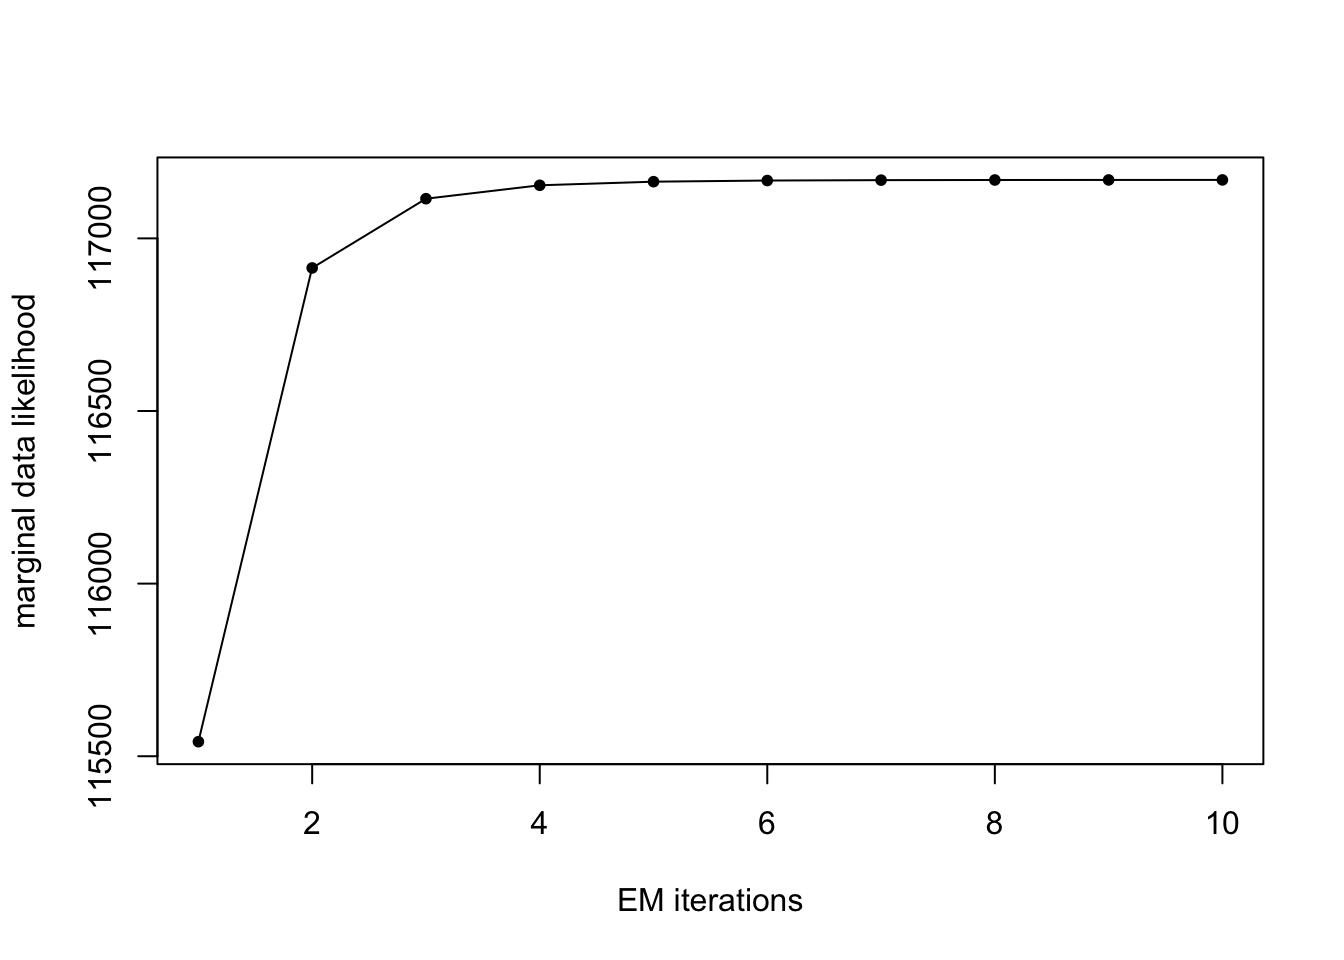
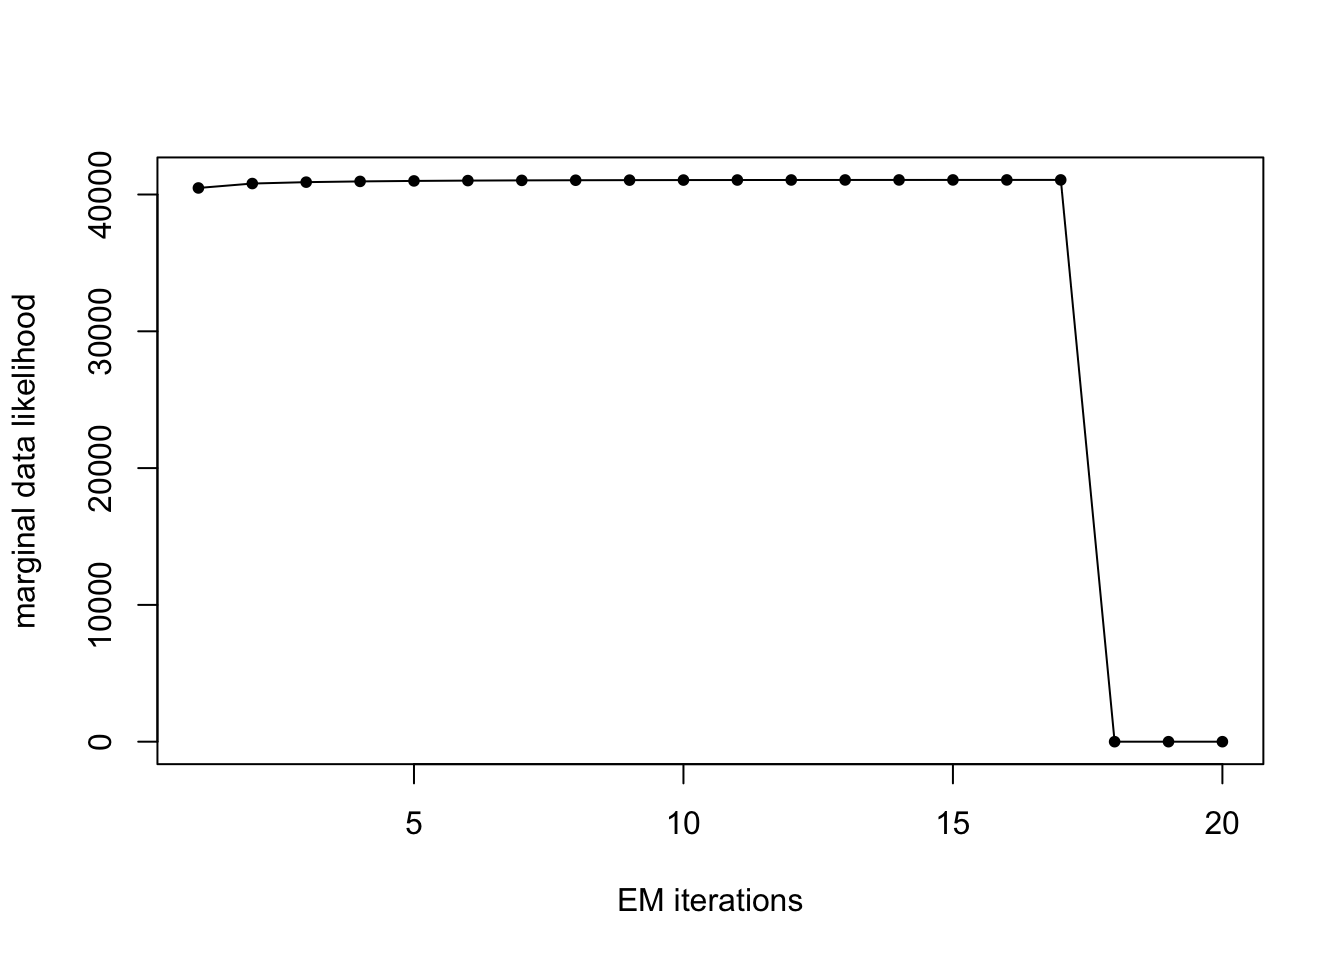
Build site.

diff --git a/docs/MIRAGE_extension.html b/docs/MIRAGE_extension.html
@@ -382,7 +382,7 @@ class="glyphicon glyphicon-ok text-success" aria-hidden="true"></span>
 <div class="tab-content">
 <div id="summary" class="tab-pane fade in active">
 <p>
-<strong>Last updated:</strong> 2026-02-11
+<strong>Last updated:</strong> 2026-02-12
 </p>
 <p>
 <strong>Checks:</strong> <span
@@ -513,15 +513,15 @@ project makes it easier to run your code on other machines.</p>
 <div class="panel panel-default">
 <div class="panel-heading">
 <p class="panel-title">
-<a data-toggle="collapse" data-parent="#workflowr-checks" href="#strongRepositoryversionstrongahrefhttpsgithubcomLifanLiangeQTLmethodstree4827df877a2322c689f431761c2adec1641935b5targetblank4827df8a">
+<a data-toggle="collapse" data-parent="#workflowr-checks" href="#strongRepositoryversionstrongahrefhttpsgithubcomLifanLiangeQTLmethodstreea6b3bfef80162fe34c1ff8d6784cfff341ff731dtargetblanka6b3bfea">
 <span class="glyphicon glyphicon-ok text-success"
 aria-hidden="true"></span> <strong>Repository version:</strong>
-<a href="https://github.com/LifanLiang/eQTL_methods/tree/4827df877a2322c689f431761c2adec1641935b5" target="_blank">4827df8</a>
+<a href="https://github.com/LifanLiang/eQTL_methods/tree/a6b3bfef80162fe34c1ff8d6784cfff341ff731d" target="_blank">a6b3bfe</a>
 </a>
 </p>
 </div>
 <div
[2 lines of base64/hex data omitted]
 class="panel-collapse collapse">
 <div class="panel-body">
 <p>
@@ -531,7 +531,7 @@ reproducibility.
 </p>
 <p>
 The results in this page were generated with repository version
-<a href="https://github.com/LifanLiang/eQTL_methods/tree/4827df877a2322c689f431761c2adec1641935b5" target="_blank">4827df8</a>.
+<a href="https://github.com/LifanLiang/eQTL_methods/tree/a6b3bfef80162fe34c1ff8d6784cfff341ff731d" target="_blank">a6b3bfe</a>.
 See the <em>Past versions</em> tab to see a history of the changes made
 to the R Markdown and HTML files.
 </p>
@@ -616,6 +616,40 @@ Message
 Rmd
 </td>
 <td>
+<a href="https://github.com/LifanLiang/eQTL_methods/blob/a6b3bfef80162fe34c1ff8d6784cfff341ff731d/analysis/MIRAGE_extension.Rmd" target="_blank">a6b3bfe</a>
+</td>
+<td>
+Lifan Liang
+</td>
+<td>
+2026-02-12
+</td>
+<td>
+wflow_publish("analysis")
+</td>
+</tr>
+<tr>
+<td>
+html
+</td>
+<td>
+<a href="https://rawcdn.githack.com/LifanLiang/eQTL_methods/dda8fcc8de5121736f7217e98ce082cf62a3b0a7/docs/MIRAGE_extension.html" target="_blank">dda8fcc</a>
+</td>
+<td>
+Lifan Liang
+</td>
+<td>
+2026-02-11
+</td>
+<td>
+Build site.
+</td>
+</tr>
+<tr>
+<td>
+Rmd
+</td>
+<td>
 <a href="https://github.com/LifanLiang/eQTL_methods/blob/4827df877a2322c689f431761c2adec1641935b5/analysis/MIRAGE_extension.Rmd" target="_blank">4827df8</a>
 </td>
 <td>
@@ -685,10 +719,10 @@ Z_j = \begin{cases}
 # Model parameters
 N &lt;- 1000 # number of genes
 J &lt;- 100 # number of variants per gene
-delta &lt;- 0.2 # percent of risk genes
+delta &lt;- 0.1 # percent of risk genes
 pi &lt;- c(0.8, 0.3, 0.05) # percent of risk variants in each variant category
 #mu &lt;- c(0, 0, 0)
-mu &lt;- c(0.3, 0.2, 0.1) # mean effect size
+mu &lt;- c(0.2, 0.2, 0.2) # mean effect size
 sigma &lt;- c(0.2, 0.2, 0.2) # SD of effect size
 
 # Set up the variant categories and AF
@@ -726,7 +760,7 @@ beta[idx] &lt;- rnorm(
 )
 
 # Create summary statistics
-n.samples &lt;- 100000 # sample size of association study
+n.samples &lt;- 20000 # sample size of association study
 se.var &lt;- 1/sqrt(n.samples * 2 * AF * (1-AF))
 beta.hat &lt;- matrix(rnorm(n=N*J, mean=beta, sd=se.var), nrow=N, ncol=J)</code></pre>
 </div>
@@ -885,7 +919,7 @@ variants in <span class="math inline">\(k\)</span>th category at the
 # Input: data matrix beta.hat and SE. Variant annotations C.
 # Input: parameters mu and sigma are given. 
 # Input: initial values of parameters
-est.par &lt;- function(beta.hat, se, C, mu, sigma, pi.init, delta.init, niter=5) {
+est.par &lt;- function(beta.hat, se, C, mu, sigma, pi.init, delta.init, niter=10, tol=0.5) {
   ngenes &lt;- nrow(beta.hat)
   nvariants &lt;- ncol(beta.hat)
   ncat &lt;- length(pi.init)
@@ -930,8 +964,15 @@ est.par &lt;- function(beta.hat, se, C, mu, sigma, pi.init, delta.init, niter=5)
     delta &lt;- delta.new
     pi &lt;- pi.new
     
-    
     cat(&quot;The observed marignal likelihood at&quot;, iter, &quot;th iteration:&quot;, marg.lik, &quot;\n&quot;)
+    
+    if(iter&gt;1) {
+      diff &lt;- data.lik[iter] - data.lik[iter-1]
+      if(diff&lt;tol) {
+        cat(&quot;Marginal likelihood reach convergence. (increase &lt;&quot;,tol,&quot;)&quot;)
+        break
+      }
+    }
   }
   
   result &lt;- list(delta = delta, pi = pi, lik.tract = data.lik, pi.trac = pi.trac, delta.trac = delta.trac)
@@ -945,24 +986,143 @@ and the proportion of risk variants (<span
 class="math inline">\(\pi_k\)</span>).</p>
 <p>In ground truth, we set <span
 class="math inline">\(\pi=\{0.8,0.3,0.05\}\)</span> and <span
-class="math inline">\(\delta=0.2\)</span>.</p>
+class="math inline">\(\delta=0.1\)</span>.</p>
 <p>To validate the EM algorithm, the initial value was set quite
 different from the ground truth (<span
 class="math inline">\(\bar\pi=\{0.1,0.1,0.1\}, \bar\delta=0.6\)</span>).
 The parameters has converged very close the ground truth.</p>
-<pre><code>The observed marignal likelihood at 1 th iteration: 115542.1 
-The observed marignal likelihood at 2 th iteration: 116914.4 
-The observed marignal likelihood at 3 th iteration: 117114.9 
-The observed marignal likelihood at 4 th iteration: 117153.8 
-The observed marignal likelihood at 5 th iteration: 117164.2 
-The observed marignal likelihood at 6 th iteration: 117167.5 
-The observed marignal likelihood at 7 th iteration: 117168.7 
-The observed marignal likelihood at 8 th iteration: 117169.1 
-The observed marignal likelihood at 9 th iteration: 117169.3 
-The observed marignal likelihood at 10 th iteration: 117169.3 </code></pre>
+<pre><code>The observed marignal likelihood at 1 th iteration: 40478.58 
+The observed marignal likelihood at 2 th iteration: 40801.82 
+The observed marignal likelihood at 3 th iteration: 40903.47 
+The observed marignal likelihood at 4 th iteration: 40958.11 
+The observed marignal likelihood at 5 th iteration: 40993.68 
+The observed marignal likelihood at 6 th iteration: 41017.34 
+The observed marignal likelihood at 7 th iteration: 41033.2 
+The observed marignal likelihood at 8 th iteration: 41043.92 
+The observed marignal likelihood at 9 th iteration: 41051.23 
+The observed marignal likelihood at 10 th iteration: 41056.26 
+The observed marignal likelihood at 11 th iteration: 41059.73 
+The observed marignal likelihood at 12 th iteration: 41062.16 
+The observed marignal likelihood at 13 th iteration: 41063.87 
+The observed marignal likelihood at 14 th iteration: 41065.09 
+The observed marignal likelihood at 15 th iteration: 41065.98 
+The observed marignal likelihood at 16 th iteration: 41066.62 
+The observed marignal likelihood at 17 th iteration: 41067.1 
+Marginal likelihood reach convergence. (increase &lt; 0.5 )</code></pre>
 <p><img src="figure/MIRAGE_extension.Rmd/unnamed-chunk-5-1.png" width="672" style="display: block; margin: auto;" /></p>
+<p>
+<button type="button" class="btn btn-default btn-xs btn-workflowr btn-workflowr-fig" data-toggle="collapse" data-target="#fig-unnamed-chunk-5-1">
+Past versions of unnamed-chunk-5-1.png
+</button>
+</p>
+<div id="fig-unnamed-chunk-5-1" class="collapse">
+<div class="table-responsive">
+<table class="table table-condensed table-hover">
+<thead>
+<tr>
+<th>
+Version
+</th>
+<th>
+Author
+</th>
+<th>
+Date
+</th>
+</tr>
+</thead>
+<tbody>
+<tr>
+<td>
+<a href="https://github.com/LifanLiang/eQTL_methods/blob/dda8fcc8de5121736f7217e98ce082cf62a3b0a7/docs/figure/MIRAGE_extension.Rmd/unnamed-chunk-5-1.png" target="_blank">dda8fcc</a>
+</td>
+<td>
+Lifan Liang
+</td>
+<td>
+2026-02-11
+</td>
+</tr>
+</tbody>
+</table>
+</div>
+</div>
 <p><img src="figure/MIRAGE_extension.Rmd/unnamed-chunk-6-1.png" width="672" style="display: block; margin: auto;" /></p>
+<p>
+<button type="button" class="btn btn-default btn-xs btn-workflowr btn-workflowr-fig" data-toggle="collapse" data-target="#fig-unnamed-chunk-6-1">
+Past versions of unnamed-chunk-6-1.png
+</button>
+</p>
+<div id="fig-unnamed-chunk-6-1" class="collapse">
+<div class="table-responsive">
+<table class="table table-condensed table-hover">
+<thead>
+<tr>
+<th>
+Version
+</th>
+<th>
+Author
+</th>
+<th>
+Date
+</th>
+</tr>
+</thead>
+<tbody>
+<tr>
+<td>
+<a href="https://github.com/LifanLiang/eQTL_methods/blob/dda8fcc8de5121736f7217e98ce082cf62a3b0a7/docs/figure/MIRAGE_extension.Rmd/unnamed-chunk-6-1.png" target="_blank">dda8fcc</a>
+</td>
+<td>
+Lifan Liang
+</td>
+<td>
+2026-02-11
+</td>
+</tr>
+</tbody>
+</table>
+</div>
+</div>
 <p><img src="figure/MIRAGE_extension.Rmd/unnamed-chunk-7-1.png" width="672" style="display: block; margin: auto;" /></p>
+<p>
+<button type="button" class="btn btn-default btn-xs btn-workflowr btn-workflowr-fig" data-toggle="collapse" data-target="#fig-unnamed-chunk-7-1">
+Past versions of unnamed-chunk-7-1.png
+</button>
+</p>
+<div id="fig-unnamed-chunk-7-1" class="collapse">
+<div class="table-responsive">
+<table class="table table-condensed table-hover">
+<thead>
+<tr>
+<th>
+Version
+</th>
+<th>
+Author
+</th>
+<th>
+Date
+</th>
+</tr>
+</thead>
+<tbody>
+<tr>
+<td>
+<a href="https://github.com/LifanLiang/eQTL_methods/blob/dda8fcc8de5121736f7217e98ce082cf62a3b0a7/docs/figure/MIRAGE_extension.Rmd/unnamed-chunk-7-1.png" target="_blank">dda8fcc</a>
+</td>
+<td>
+Lifan Liang
+</td>
+<td>
+2026-02-11
+</td>
+</tr>
+</tbody>
+</table>
+</div>
+</div>
 </div>
 </div>
 <div id="simulation-testing-performance" class="section level3">
@@ -975,19 +1135,19 @@ LoF category.</p>
 effect direction, we set up the genetic parametrs <span
 class="math inline">\(\mu\)</span> to be positive. Specifically:</p>
 <ul>
-<li>There are 100,000 samples with 1000 genes. Each genes has 100
+<li>There are 20,000 samples with 1000 genes. Each genes has 100
 variants.</li>
 <li>Proportion of risk genes: <span
-class="math inline">\(\delta=0.2\)</span>. Hence there are 200 risk
+class="math inline">\(\delta=0.1\)</span>. Hence there are 100 risk
 genes.</li>
 <li>Proportion of risk variants for each category: <span
 class="math inline">\(\pi=\{0.8,0.3,0.05\}\)</span></li>
 <li>LoF risk variants: <span class="math inline">\(\beta \sim
-Normal(\mu=0.3, \sigma=0.2)\)</span></li>
+Normal(\mu=0.2, \sigma=0.2)\)</span></li>
 <li>Missense risk variants: <span class="math inline">\(\beta \sim
 Normal(\mu=0.2, \sigma=0.2)\)</span></li>
 <li>Synonymous risk variants: <span class="math inline">\(\beta \sim
-Normal(\mu=0.1, \sigma=0.2)\)</span></li>
+Normal(\mu=0.2, \sigma=0.2)\)</span></li>
 </ul>
 <pre class="r"><code>library(ACAT)
 # ACAT test: compute the p-value for each variant, then combine with ACAT
@@ -1023,12 +1183,25 @@ w.all &lt;- rep(1,ncol(beta.hat))
 w.lof &lt;- ifelse(C[1,]==1,1,0)
 
 ### Estimate the proportion of risk genes and risk variants
-par.est &lt;- est.par(beta.hat, se.var, C,mu, sigma, pi.init = rep(0.1,3), delta.init = 0.5)</code></pre>
-<pre><code>The observed marignal likelihood at 1 th iteration: 115671.5 
-The observed marignal likelihood at 2 th iteration: 116938.7 
-The observed marignal likelihood at 3 th iteration: 117118 
-The observed marignal likelihood at 4 th iteration: 117154.3 
-The observed marignal likelihood at 5 th iteration: 117164.3 </code></pre>
+par.est &lt;- est.par(beta.hat, se.var, C,mu, sigma, pi.init = rep(0.1,3), delta.init = 0.5, niter=20)</code></pre>
+<pre><code>The observed marignal likelihood at 1 th iteration: 40589.34 
+The observed marignal likelihood at 2 th iteration: 40832.15 
+The observed marignal likelihood at 3 th iteration: 40918.61 
+The observed marignal likelihood at 4 th iteration: 40968.84 
+The observed marignal likelihood at 5 th iteration: 41001.49 
+The observed marignal likelihood at 6 th iteration: 41022.95 
+The observed marignal likelihood at 7 th iteration: 41037.2 
+The observed marignal likelihood at 8 th iteration: 41046.77 
+The observed marignal likelihood at 9 th iteration: 41053.25 
+The observed marignal likelihood at 10 th iteration: 41057.69 
+The observed marignal likelihood at 11 th iteration: 41060.76 
+The observed marignal likelihood at 12 th iteration: 41062.9 
+The observed marignal likelihood at 13 th iteration: 41064.41 
+The observed marignal likelihood at 14 th iteration: 41065.49 
+The observed marignal likelihood at 15 th iteration: 41066.27 
+The observed marignal likelihood at 16 th iteration: 41066.84 
+The observed marignal likelihood at 17 th iteration: 41067.27 
+Marginal likelihood reach convergence. (increase &lt; 0.5 )</code></pre>
 <pre class="r"><code>### Testing one gene after another
 for (i in 1:N) {
   mirage.pip[i] &lt;- comp.gene(beta.hat[i,], se.var[i,], C[i,], par.est$pi, mu, sigma, par.est$delta)$post.gene
@@ -1042,6 +1215,43 @@ q.ACAT &lt;- p.adjust(p.ACAT.genes, method=&quot;BH&quot;)
 q.burden.all &lt;- p.adjust(p.burden.all, method=&quot;BH&quot;)
 q.burden.lof &lt;- p.adjust(p.burden.lof, method=&quot;BH&quot;)</code></pre>
 <p><img src="figure/MIRAGE_extension.Rmd/unnamed-chunk-10-1.png" width="672" style="display: block; margin: auto;" /></p>
+<p>
+<button type="button" class="btn btn-default btn-xs btn-workflowr btn-workflowr-fig" data-toggle="collapse" data-target="#fig-unnamed-chunk-10-1">
+Past versions of unnamed-chunk-10-1.png
+</button>
+</p>
+<div id="fig-unnamed-chunk-10-1" class="collapse">
+<div class="table-responsive">
+<table class="table table-condensed table-hover">
+<thead>
+<tr>
+<th>
+Version
+</th>
+<th>
+Author
+</th>
+<th>
+Date
+</th>
+</tr>
+</thead>
+<tbody>
+<tr>
+<td>
+<a href="https://github.com/LifanLiang/eQTL_methods/blob/dda8fcc8de5121736f7217e98ce082cf62a3b0a7/docs/figure/MIRAGE_extension.Rmd/unnamed-chunk-10-1.png" target="_blank">dda8fcc</a>
+</td>
+<td>
+Lifan Liang
+</td>
+<td>
+2026-02-11
+</td>
+</tr>
+</tbody>
+</table>
+</div>
+</div>
 <br>
 <p>
 <button type="button" class="btn btn-default btn-workflowr btn-workflowr-sessioninfo" data-toggle="collapse" data-target="#workflowr-sessioninfo" style="display: block;">
